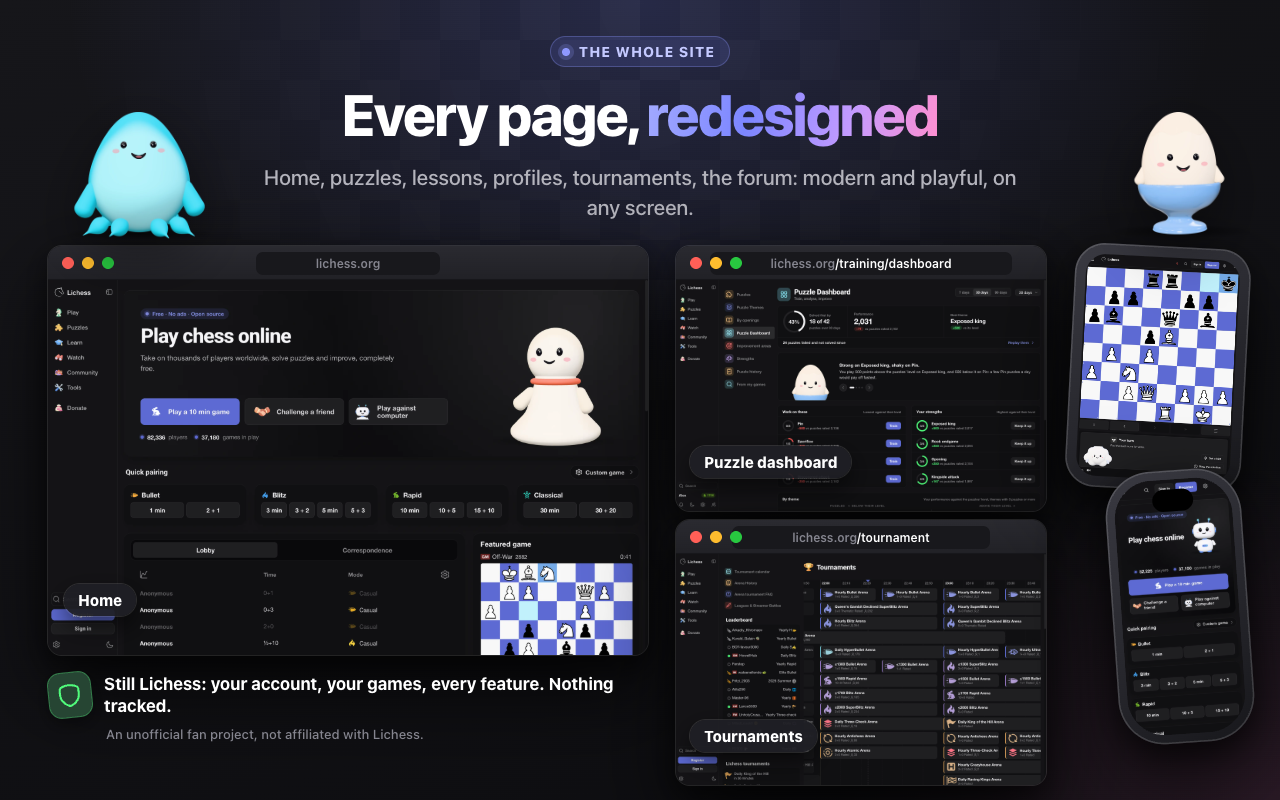
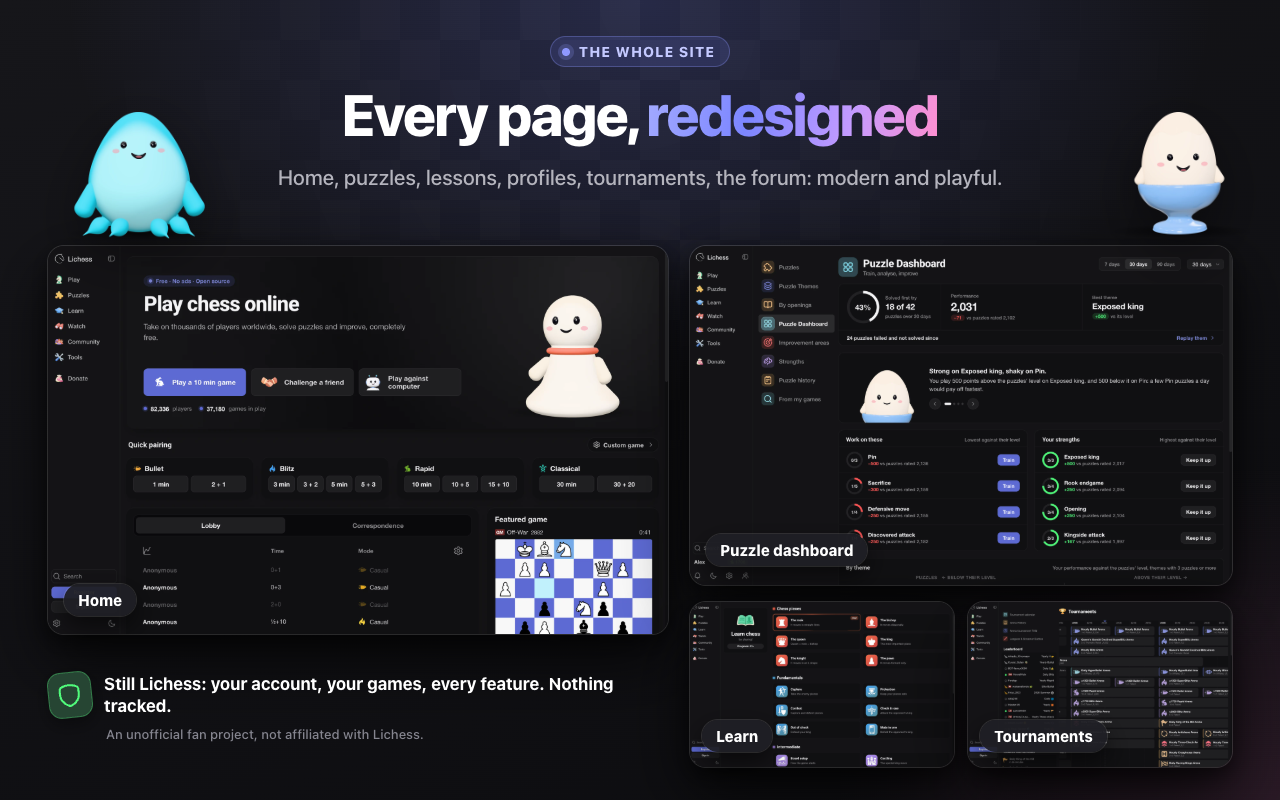
Show the pages as rounded shots, without devices, on the store image

diff --git a/store/templates/5-pages.html b/store/templates/5-pages.html
@@ -25,22 +25,33 @@
     max-width: 820px;
   }
 
+  /* A bento of rounded shots: the home, then three pages at its right. */
+  .shot {
+    border-radius: 16px;
+  }
+
   .home {
     top: 246px;
     left: 48px;
-    width: 600px;
+    width: 620px;
   }
 
   .side {
     top: 246px;
-    left: 676px;
-    width: 370px;
+    left: 690px;
+    width: 542px;
+  }
+
+  .learn {
+    top: 602px;
+    left: 690px;
+    width: 264px;
   }
 
   .tournament {
-    top: 520px;
-    left: 676px;
-    width: 370px;
+    top: 602px;
+    left: 968px;
+    width: 264px;
   }
 
   .label {
@@ -58,27 +69,18 @@
   }
 
   .side-label {
-    top: 446px;
-    left: 690px;
+    top: 534px;
+    left: 706px;
+  }
+
+  .learn-label {
+    top: 720px;
+    left: 702px;
   }
 
   .tournament-label {
     top: 720px;
-    left: 690px;
-  }
-
-  .tablet {
-    top: 246px;
-    left: 1070px;
-    width: 176px;
-    transform: rotate(3deg);
-  }
-
-  .phone {
-    top: 470px;
-    left: 1112px;
-    width: 136px;
-    transform: rotate(-4deg);
+    left: 980px;
   }
 
   .octopus {
@@ -119,43 +121,26 @@
   <span class="pill"><span lang="en">The whole site</span><span lang="fr">Tout le site</span></span>
   <h1 lang="en">Every page, <em>redesigned</em></h1>
   <h1 lang="fr">Chaque page, <em>repensée</em></h1>
-  <p class="sub" lang="en">Home, puzzles, lessons, profiles, tournaments, the forum: modern and playful, on any screen.</p>
-  <p class="sub" lang="fr">Accueil, problèmes, leçons, profils, tournois, forum : modernes et ludiques, sur tous les écrans.</p>
+  <p class="sub" lang="en">Home, puzzles, lessons, profiles, tournaments, the forum: modern and playful.</p>
+  <p class="sub" lang="fr">Accueil, problèmes, leçons, profils, tournois, forum : modernes et ludiques.</p>
 </header>
 
-<div class="window home">
-  <p><span>lichess.org</span></p>
-  <img lang="en" src="shots/home-en.webp">
-  <img lang="fr" src="shots/home-fr.webp">
-</div>
+<img class="card shot home" lang="en" src="shots/home-en.webp">
+<img class="card shot home" lang="fr" src="shots/home-fr.webp">
 <p class="label home-label"><span lang="en">Home</span><span lang="fr">Accueil</span></p>
 
 <!-- Signed in, Lichess shows the account's language: the French page is one open to all. -->
-<div class="window side" lang="en">
-  <p><span>lichess.org<b>/training/dashboard</b></span></p>
-  <img src="shots/dashboard-en.webp">
-</div>
-<div class="window side" lang="fr">
-  <p><span>lichess.org<b>/practice</b></span></p>
-  <img src="shots/practice-fr.webp">
-</div>
+<img class="card shot side" lang="en" src="shots/dashboard-en.webp">
+<img class="card shot side" lang="fr" src="shots/practice-fr.webp">
 <p class="label side-label"><span lang="en">Puzzle dashboard</span><span lang="fr">Exercices</span></p>
 
-<div class="window tournament">
-  <p><span>lichess.org<b>/tournament</b></span></p>
-  <img lang="en" src="shots/tournament-en.webp">
-  <img lang="fr" src="shots/tournament-fr.webp">
-</div>
-<p class="label tournament-label"><span lang="en">Tournaments</span><span lang="fr">Tournois</span></p>
+<img class="card shot learn" lang="en" src="shots/learn-en.webp">
+<img class="card shot learn" lang="fr" src="shots/learn-fr.webp">
+<p class="label learn-label"><span lang="en">Learn</span><span lang="fr">Apprendre</span></p>
 
-<div class="tablet">
-  <img lang="en" src="shots/tablet-puzzle-en.webp">
-  <img lang="fr" src="shots/tablet-puzzle-fr.webp">
-</div>
-<div class="phone">
-  <img lang="en" src="shots/phone-home-en.webp">
-  <img lang="fr" src="shots/phone-home-fr.webp">
-</div>
+<img class="card shot tournament" lang="en" src="shots/tournament-en.webp">
+<img class="card shot tournament" lang="fr" src="shots/tournament-fr.webp">
+<p class="label tournament-label"><span lang="en">Tournaments</span><span lang="fr">Tournois</span></p>
 
 <img class="coach octopus" src="coaches/coach-7-happy.webp">
 <img class="coach egg" src="coaches/coach-22-happy.webp">
